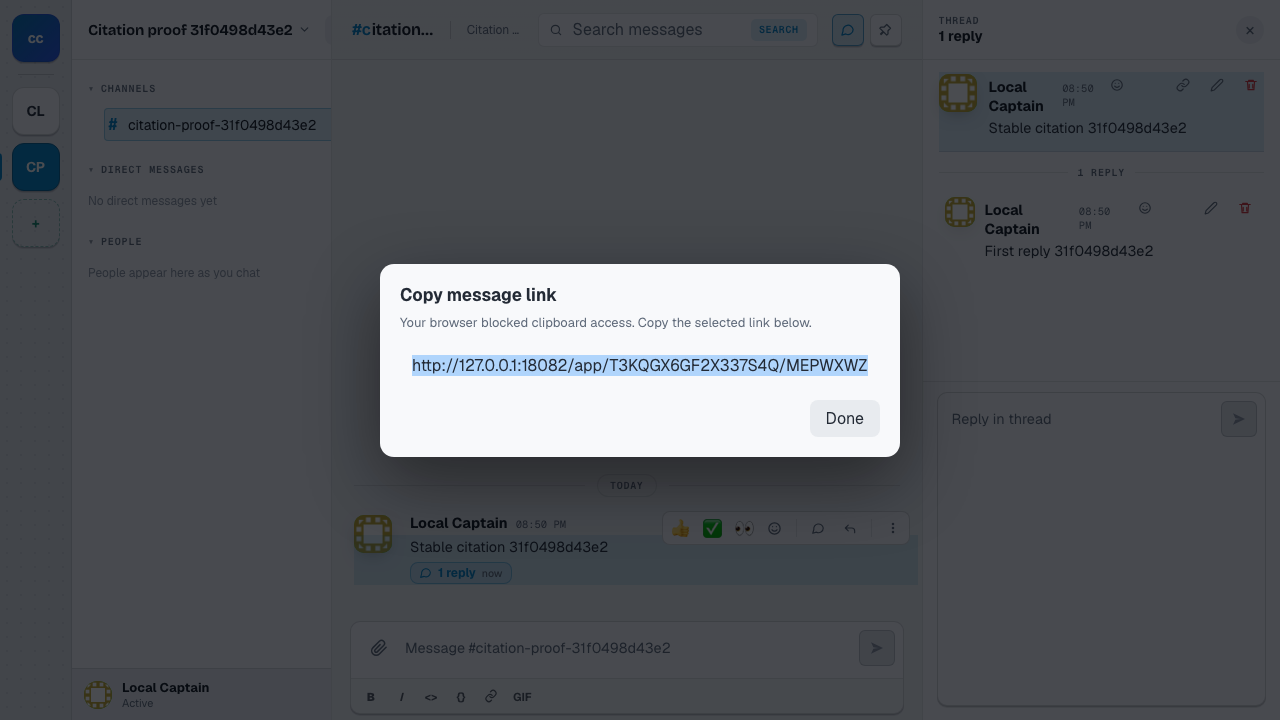
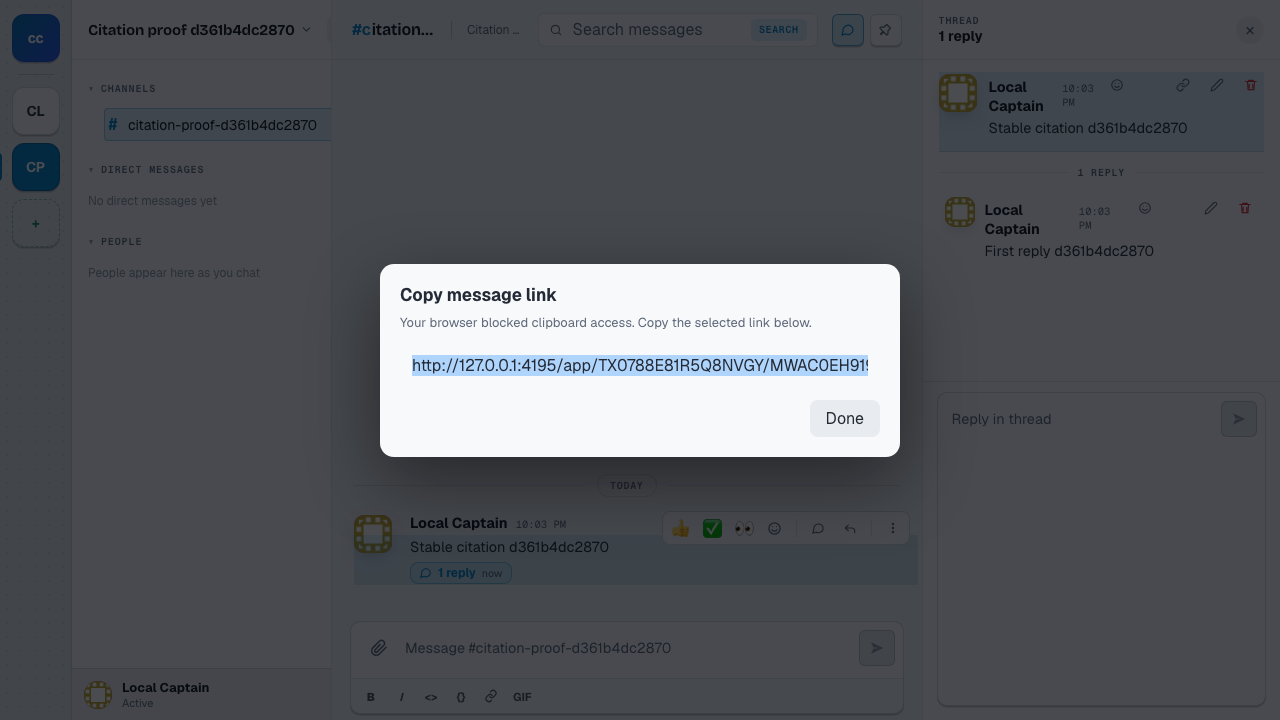
fix: backfill PostgreSQL citation routes

diff --git a/tests/e2e/message-citations.spec.ts b/tests/e2e/message-citations.spec.ts
@@ -194,6 +194,10 @@ test("channel root citations copy, reopen, highlight, and keep their URL after t
     data: { body: `First reply ${suffix}` },
   });
   expect(replyResponse.ok()).toBe(true);
+  const { message: reply } = (await replyResponse.json()) as {
+    message: { route_id?: string };
+  };
+  expect(reply.route_id ?? "").toBe("");
   await page.reload();
   await waitForAppReady(page);
   await expect(page).toHaveURL(expectedURL);

diff --git a/apps/api/internal/store/postgres/route_ids_test.go b/apps/api/internal/store/postgres/route_ids_test.go
@@ -2,11 +2,93 @@ package postgres
 
 import (
 	"context"
+	"database/sql"
 	"strings"
 	"testing"
 
 	"github.com/openclaw/clickclack/apps/api/internal/store"
 )
+
+func TestMigrateBackfillsLegacyChannelRootRouteIDs(t *testing.T) {
+	ctx := context.Background()
+	st := newIsolatedPostgresTestStore(t)
+	applyPostgresMigrationsBefore(t, ctx, st, "0002_default_workspace_owner.sql")
+
+	const (
+		ownerID       = "usr_legacy_route_owner"
+		memberID      = "usr_legacy_route_member"
+		workspaceID   = "wsp_legacy_route"
+		channelID     = "chn_legacy_route"
+		directID      = "dct_legacy_route"
+		channelRootID = "msg_legacy_channel_root"
+		directRootID  = "msg_legacy_direct_root"
+		replyID       = "msg_legacy_channel_reply"
+	)
+	for _, statement := range []struct {
+		query string
+		args  []any
+	}{
+		{`INSERT INTO users (id, display_name, avatar_url, created_at) VALUES ($1, 'Owner', '', $2)`, []any{ownerID, now()}},
+		{`INSERT INTO users (id, display_name, avatar_url, created_at) VALUES ($1, 'Member', '', $2)`, []any{memberID, now()}},
+		{`INSERT INTO workspaces (id, name, slug, created_at) VALUES ($1, 'Legacy Routes', 'legacy-routes', $2)`, []any{workspaceID, now()}},
+		{`INSERT INTO workspace_members (workspace_id, user_id, role, created_at) VALUES ($1, $2, 'owner', $3), ($1, $4, 'member', $3)`, []any{workspaceID, ownerID, now(), memberID}},
+		{`INSERT INTO channels (id, workspace_id, name, kind, created_at) VALUES ($1, $2, 'general', 'public', $3)`, []any{channelID, workspaceID, now()}},
+		{`INSERT INTO direct_conversations (id, workspace_id, created_at) VALUES ($1, $2, $3)`, []any{directID, workspaceID, now()}},
+		{`INSERT INTO messages (id, workspace_id, channel_id, author_id, thread_root_id, channel_seq, body, body_format, created_at) VALUES ($1, $2, $3, $4, $1, 1, 'channel root', 'markdown', $5)`, []any{channelRootID, workspaceID, channelID, ownerID, now()}},
+		{`INSERT INTO messages (id, workspace_id, direct_conversation_id, author_id, thread_root_id, channel_seq, body, body_format, created_at) VALUES ($1, $2, $3, $4, $1, 1, 'direct root', 'markdown', $5)`, []any{directRootID, workspaceID, directID, ownerID, now()}},
+		{`INSERT INTO messages (id, workspace_id, channel_id, author_id, parent_message_id, thread_root_id, thread_seq, body, body_format, created_at) VALUES ($1, $2, $3, $4, $5, $5, 1, 'reply', 'markdown', $6)`, []any{replyID, workspaceID, channelID, memberID, channelRootID, now()}},
+	} {
+		if _, err := st.db.ExecContext(ctx, statement.query, statement.args...); err != nil {
+			t.Fatal(err)
+		}
+	}
+
+	if err := st.Migrate(ctx); err != nil {
+		t.Fatal(err)
+	}
+
+	var workspaceRouteID, channelRouteID, directRouteID, channelRootRouteID, directRootRouteID, replyRouteID sql.NullString
+	for _, check := range []struct {
+		query string
+		id    string
+		dest  *sql.NullString
+	}{
+		{`SELECT route_id FROM workspaces WHERE id = $1`, workspaceID, &workspaceRouteID},
+		{`SELECT route_id FROM channels WHERE id = $1`, channelID, &channelRouteID},
+		{`SELECT route_id FROM direct_conversations WHERE id = $1`, directID, &directRouteID},
+		{`SELECT route_id FROM messages WHERE id = $1`, channelRootID, &channelRootRouteID},
+		{`SELECT route_id FROM messages WHERE id = $1`, directRootID, &directRootRouteID},
+		{`SELECT route_id FROM messages WHERE id = $1`, replyID, &replyRouteID},
+	} {
+		if err := st.db.QueryRowContext(ctx, check.query, check.id).Scan(check.dest); err != nil {
+			t.Fatal(err)
+		}
+	}
+	for _, check := range []struct {
+		name   string
+		value  sql.NullString
+		prefix string
+	}{
+		{"workspace", workspaceRouteID, "T"},
+		{"channel", channelRouteID, "C"},
+		{"direct conversation", directRouteID, "D"},
+		{"channel root", channelRootRouteID, "M"},
+	} {
+		if !check.value.Valid || !strings.HasPrefix(check.value.String, check.prefix) {
+			t.Fatalf("legacy %s was not backfilled: %q", check.name, check.value.String)
+		}
+	}
+	if directRootRouteID.Valid || replyRouteID.Valid {
+		t.Fatalf("legacy direct roots and replies must remain uncited: direct=%q reply=%q", directRootRouteID.String, replyRouteID.String)
+	}
+	var markerCount int
+	if err := st.db.QueryRowContext(ctx, `SELECT COUNT(*) FROM schema_migrations WHERE name = $1`, routeIDBackfillMarker).Scan(&markerCount); err != nil {
+		t.Fatal(err)
+	}
+	if markerCount != 1 {
+		t.Fatalf("route ID backfill completion marker = %d, want 1", markerCount)
+	}
+}
 
 func TestMessageRouteIDCreationRespectsChannelAndDirectBoundaries(t *testing.T) {
 	ctx := context.Background()

diff --git a/apps/api/internal/store/postgres/route_ids.go b/apps/api/internal/store/postgres/route_ids.go
@@ -11,7 +11,11 @@ import (
 
 const (
 	routeIDInsertAttempts = 5
-	routeIDMigrationName  = "0011_public_route_ids.sql"
+	// PostgreSQL shipped public route-ID columns in its initial schema, unlike
+	// SQLite where they arrived in the later 0011 migration. The backfill must
+	// therefore recognize an existing PostgreSQL deployment by its own schema
+	// marker.
+	routeIDMigrationName  = "0001_schema.sql"
 	routeIDBackfillMarker = "0011_public_route_ids.message_citations_backfill"
 )
 

diff --git a/docs/proof/message-citations-proof.md b/docs/proof/message-citations-proof.md
@@ -63,3 +63,25 @@ CLICKCLACK_POSTGRES_TEST_DSN="$POSTGRES_DSN" \
   go test ./apps/api/internal/store/postgres \
   -run TestMessageRouteIDCreationRespectsChannelAndDirectBoundaries
 ```
+
+## Existing-store upgrade coverage
+
+SQLite and PostgreSQL have different route-ID schema histories. SQLite added
+the columns in `0011_public_route_ids.sql`; PostgreSQL shipped them in
+`0001_schema.sql`. The one-time citation backfill keys off the appropriate
+marker for each backend.
+
+The upgrade tests start from those real historical schemas, insert legacy rows,
+run the current migrator, and verify that workspace, channel, direct
+conversation, and channel-root routes are assigned while direct-message roots
+and replies remain uncited. They also verify that the one-time completion marker
+is recorded.
+
+```sh
+go test ./apps/api/internal/store/sqlite \
+  -run 'TestMigrateBackfillsRouteIDsOnce|TestRouteIDBackfillAllChannelRoots'
+
+CLICKCLACK_POSTGRES_TEST_DSN="$POSTGRES_DSN" \
+  go test ./apps/api/internal/store/postgres \
+  -run 'TestMigrateBackfillsLegacyChannelRootRouteIDs|TestMessageRouteIDCreationRespectsChannelAndDirectBoundaries'
+```
